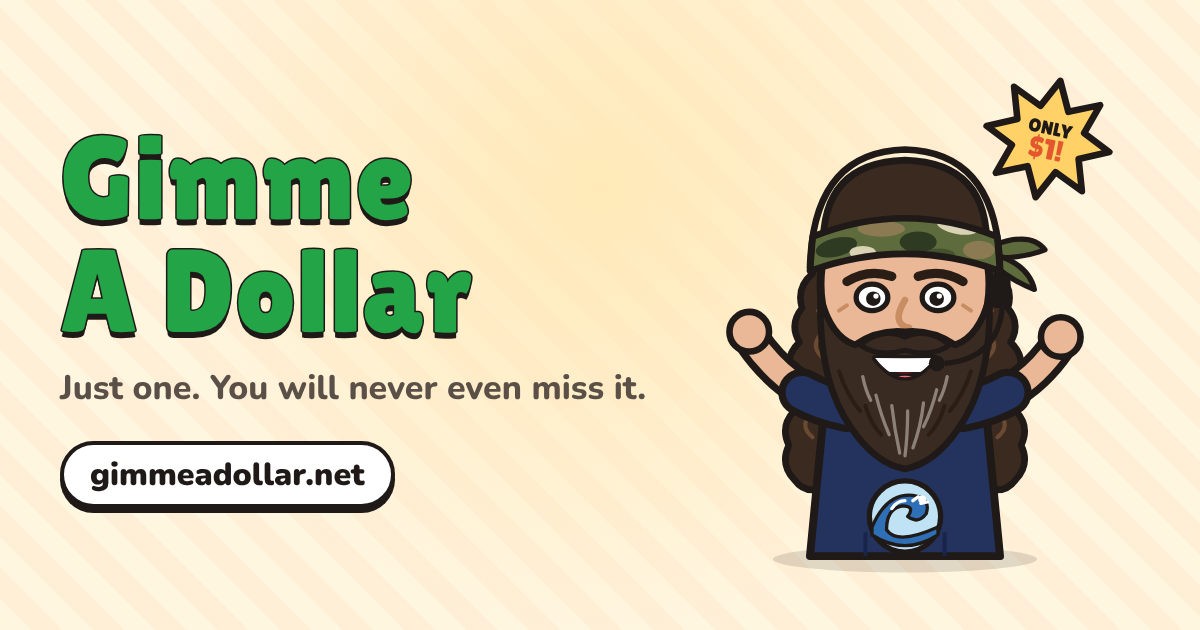
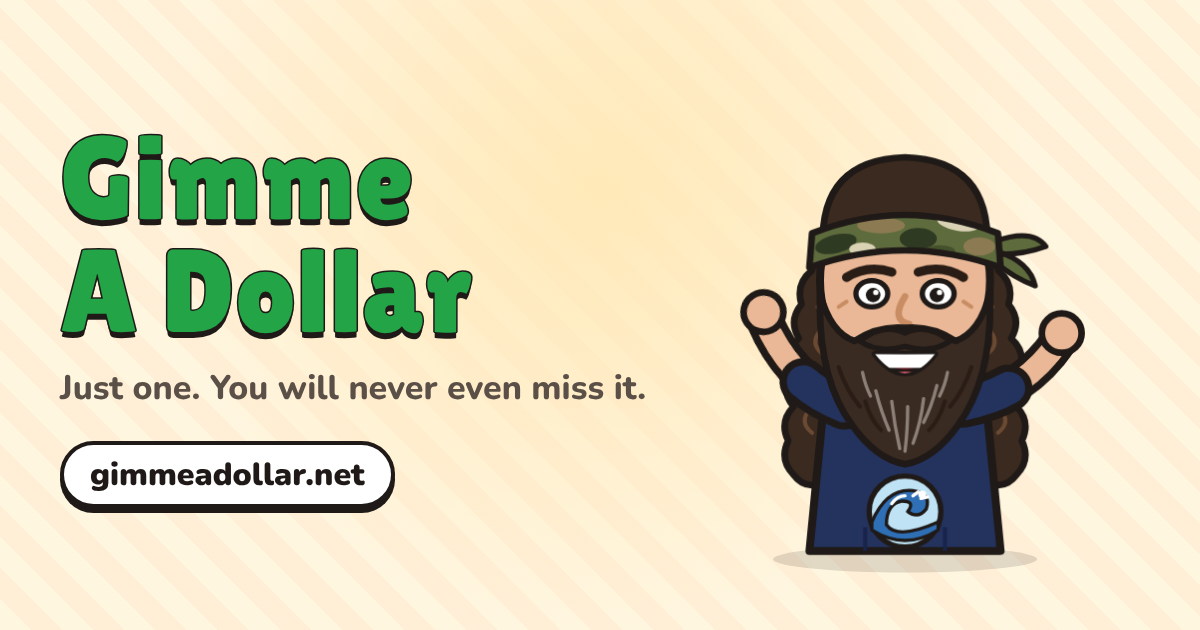
Share image without headset or price star; copy the message for Facebook and LinkedIn
Facebook and LinkedIn drop any text passed in a share link, so their buttons now
copy the message and link to the clipboard and say to paste it. The share image
is re-rendered from the current drawing and its URL is versioned so Facebook
picks up the new one.

Claude-Session: https://claude.ai/code/session_01Nwk5LZBiZB7wcN8mU3RAXe

diff --git a/assets/app.js b/assets/app.js
@@ -158,6 +158,15 @@
         window.location.href = `mailto:?subject=${encodeURIComponent(subject)}&body=${encodeURIComponent(`${msg}\n\n${url}`)}`;
         bump();
       } else if (SOCIAL[kind]) {
+        // Facebook and LinkedIn ignore any text passed in the share link, so copy the
+        // message (with the link) first and tell them to paste it. Started before the
+        // popup opens, while this page still has focus.
+        if (kind !== "x") {
+          copyText(`${msg} ${url}`);
+          const note = b.closest(".socials") && b.closest(".socials").querySelector(".socials-note");
+          const where = kind === "facebook" ? "Facebook" : "LinkedIn";
+          if (note) note.textContent = `Message copied. Paste it into your ${where} post.`;
+        }
         // "noopener" would make window.open return null, so cut the link to this page by hand.
         const w = window.open(SOCIAL[kind], "_blank", "width=620,height=680");
         if (w) w.opener = null; else window.location.href = SOCIAL[kind];

diff --git a/index.html b/index.html
@@ -7,7 +7,7 @@
 <meta name="description" content="A silly guy who asks for a dollar and won't stop until you give him one. Then tell three friends.">
 <meta property="og:title" content="Gimme A Dollar">
 <meta property="og:description" content="A silly guy who asks for a dollar and won't stop until you give him one. Then tell three friends.">
-<meta property="og:image" content="https://gimmeadollar.net/assets/og.png">
+<meta property="og:image" content="https://gimmeadollar.net/assets/og.png?v=2">
 <meta property="og:url" content="https://gimmeadollar.net/">
 <meta name="twitter:card" content="summary_large_image">
 <meta name="theme-color" content="#22a447">

diff --git a/thanks.html b/thanks.html
@@ -7,7 +7,7 @@
 <meta name="description" content="A silly guy who asks for a dollar and won't stop until you give him one. Then tell three friends.">
 <meta property="og:title" content="Gimme A Dollar">
 <meta property="og:description" content="A silly guy who asks for a dollar and won't stop until you give him one. Then tell three friends.">
-<meta property="og:image" content="https://gimmeadollar.net/assets/og.png">
+<meta property="og:image" content="https://gimmeadollar.net/assets/og.png?v=2">
 <meta property="og:url" content="https://gimmeadollar.net/">
 <meta name="twitter:card" content="summary_large_image">
 <meta name="theme-color" content="#22a447">

diff --git a/404.html b/404.html
@@ -7,7 +7,7 @@
 <meta name="description" content="This page does not exist. But I still want a dollar.">
 <meta property="og:title" content="Gimme A Dollar">
 <meta property="og:description" content="This page does not exist. But I still want a dollar.">
-<meta property="og:image" content="https://gimmeadollar.net/assets/og.png">
+<meta property="og:image" content="https://gimmeadollar.net/assets/og.png?v=2">
 <meta property="og:url" content="https://gimmeadollar.net/">
 <meta name="twitter:card" content="summary_large_image">
 <meta name="theme-color" content="#22a447">

diff --git a/tools/og.html b/tools/og.html
@@ -10,5 +10,5 @@ h1{font-size:118px;text-align:left;margin:0}
 </style></head>
 <body data-page="og"><div><h1>Gimme<br>A Dollar</h1><p class="sub">Just one. You will never even miss it.</p><div class="url">gimmeadollar.net</div></div><div id="buddy"></div>
 <script src="../assets/buddy.js"></script>
-<script>const b=new GAD.Buddy(document.getElementById('buddy'));b.level=()=>0.55;</script>
+<script>const b=new GAD.Buddy(document.getElementById('buddy'),{look:'me'});b.level=()=>0.55;</script>
 </body></html>
